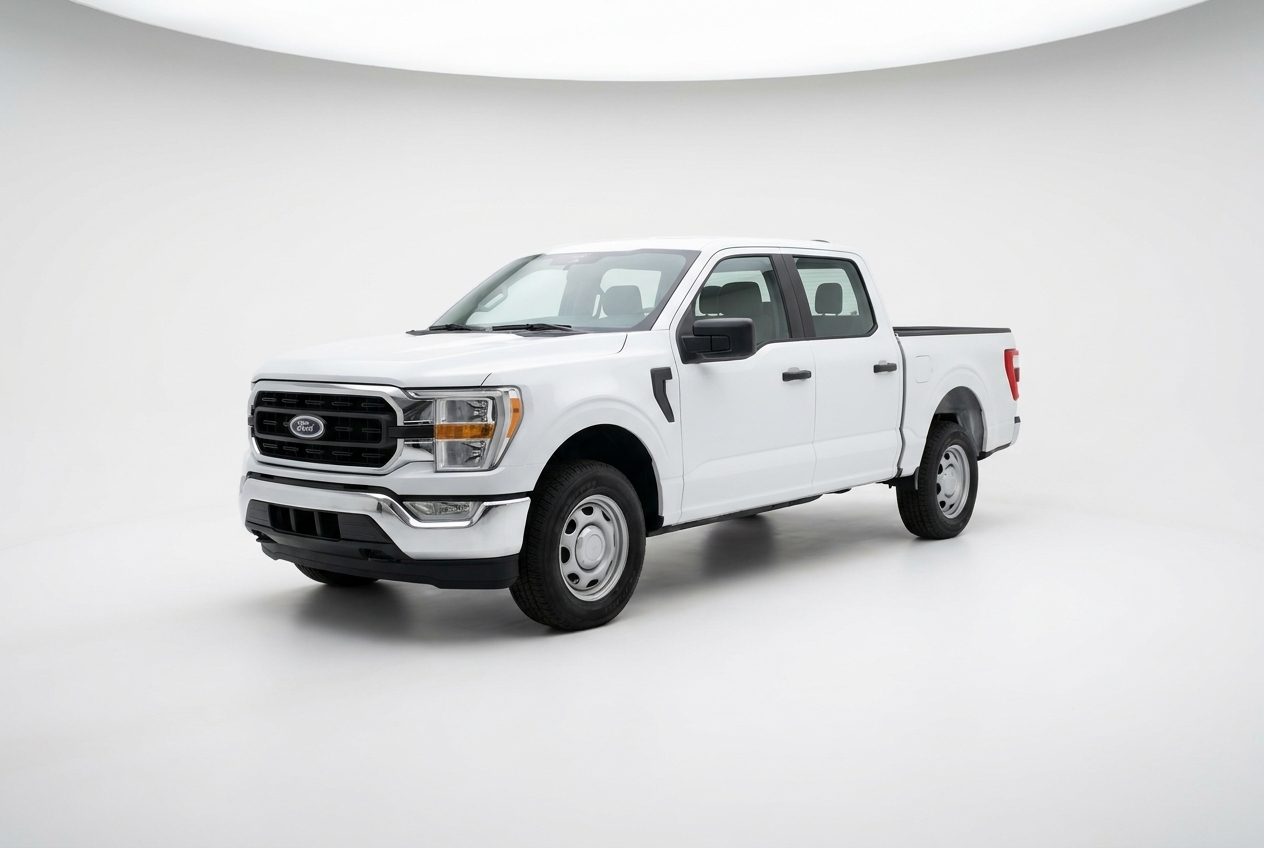
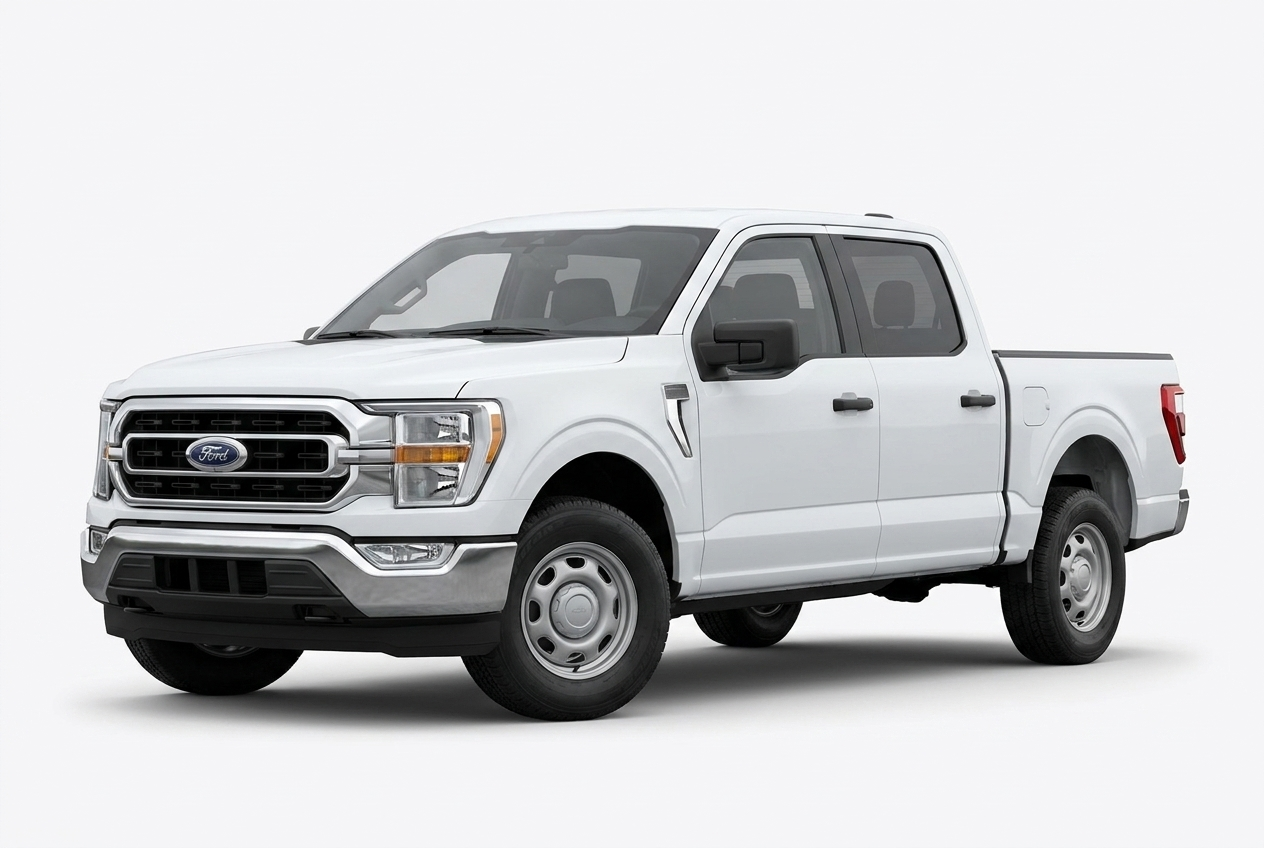
Cycle 14AP-fix9: matched zoom + click-to-zoom modal
Owner: "I want the 3 cars to be in the same zoom level (you can see
the white base car is smaller than the other 2), exact same
background, I do want to be distracted by other stuff in the picture,
also, click to zoom for each picture so that people can see the
before and after will be nice."

Three changes:

(1) Stricter framing prompt for stock chips
    "VEHICLE TAKES EXACTLY 75% OF THE FRAME WIDTH" + explicit no-
    cyclorama-curve / no-wall-to-floor-joint instructions. Replaces
    the looser "8% padding" framing that let Gemini drift on the
    BASE truck (which read smaller because the white-on-white made
    its silhouette less defined).

(2) Framing-reference plumbing in the gen script
    For front-grille-trim-mid-stock and -heavy-duty-stock, the
    script now reads front-grille-trim-base-stock from disk and
    passes it as a "framing anchor" image. Gemini gets the prior
    BASE photo as a reference and a new instruction: "match the
    framing of the attached reference image PIXEL-PRECISELY,
    differ ONLY in the trim-specific paint/bumper/wheels."
    Workflow: generate BASE first (text-to-image), then MID and
    HEAVY-DUTY anchored to BASE, then 3 stehlens via image-edit
    on each stock. Six photos total — all 3 stocks consistent
    in zoom and crop, all 3 stehlens byte-identical to their
    stock pair except for the grille.

(3) Click-to-zoom modal in DimensionPicker
    Each chip image gets a small magnifier icon overlay top-right
[…]

diff --git a/scripts/regen-dimension-chip-photos.ts b/scripts/regen-dimension-chip-photos.ts
@@ -187,7 +187,7 @@ const CHIPS: { slug: string; subject: string; framing: string; intent: string }[
     slug: "front-grille-trim-base-stock",
     subject:
       "2024 Ford F-150 SuperCrew 4-door pickup truck in BASE / XL work-truck trim. Oxford white paint. Factory chrome front bumper. Factory chrome-surround grille with horizontal silver bars. Factory 17-inch steel wheels with hub caps. Standard ride height (no lift). NO aftermarket parts of any kind. NO chase rack, NO bed accessories, NO roof rack, NO light bar.",
-    framing: "Three-quarter front-side view, vehicle FACING LEFT — grille on the LEFT half of the frame, body extending to the RIGHT. Eye-level camera, ~85mm focal length (no wide-angle distortion), camera ~15ft from vehicle. Full vehicle in frame with 8% padding all sides. Pure white seamless studio cyclorama (no horizon, no environment). Single soft top-down studio key light, soft contact shadow under tires. The grille area is the visual focal point.",
+    framing: "Three-quarter front-side view, vehicle FACING LEFT — grille on the LEFT half of the frame, body extending to the RIGHT. Eye-level camera, ~85mm focal length (no wide-angle distortion). VEHICLE TAKES EXACTLY 75% OF THE FRAME WIDTH — centered horizontally, with 12.5% empty padding on the LEFT and 12.5% on the RIGHT. Vertical: vehicle takes 65% of frame height, centered vertically, with 17.5% padding above the roof and 17.5% below the tires. Pure flat white background — NO cyclorama curve visible, NO wall-to-floor joint, NO horizon line, NO environment, NO ceiling, NO shadows other than a soft contact shadow directly under the tires. Single soft top-down studio key light. The frame must look like a clean catalog product shot floating on white, not a studio room.",
     intent: "Same Ford F-150 silhouette as the other two trims; only paint + bumper + wheels differ. Customer reads 'BASE / WORK trim — chrome bumper, steel wheels, white paint'.",
   },
   {
@@ -201,8 +201,8 @@ const CHIPS: { slug: string; subject: string; framing: string; intent: string }[
     slug: "front-grille-trim-mid-stock",
     subject:
       "2024 Ford F-150 SuperCrew 4-door pickup truck in MID-TIER / XLT trim. Atlas blue metallic paint. Factory body-color (blue) front bumper. Factory body-color grille with chrome horizontal bars. Factory 18-inch alloy wheels. Standard ride height. NO aftermarket parts.",
-    framing: "IDENTICAL framing to front-grille-trim-base-stock — three-quarter front-side view, vehicle facing LEFT, grille on LEFT half of frame, eye-level camera, same focal length, same distance, pure white seamless studio cyclorama, same lighting.",
-    intent: "Same F-150 silhouette as BASE; only paint colour + bumper finish + wheel style change. Customer reads 'XLT / MID trim — blue paint, body-color bumper, alloy wheels'.",
+    framing: "IDENTICAL framing to front-grille-trim-base-stock — three-quarter front-side view, vehicle facing LEFT, grille on LEFT half of frame, eye-level camera, same focal length. VEHICLE TAKES EXACTLY 75% OF THE FRAME WIDTH, centered horizontally with 12.5% padding left and right. Same vertical centering. Pure flat white background — NO cyclorama curve, NO wall-to-floor joint, NO horizon, NO environment, NO ceiling. Soft contact shadow under tires only.",
+    intent: "Same F-150 silhouette as BASE; only paint colour + bumper finish + wheel style change. Customer reads 'XLT / MID trim — blue paint, body-color bumper, alloy wheels'. CRITICAL: vehicle must occupy the EXACT SAME 75% frame width as the BASE chip — the white BASE truck appeared smaller in the previous round because it had more empty padding around it. Match the BASE chip zoom level pixel-precisely.",
   },
   {
     slug: "front-grille-trim-mid-stehlen",
@@ -216,7 +216,7 @@ const CHIPS: { slug: string; subject: string; framing: string; intent: string }[
     subject:
       "2024 Ford F-150 SuperCrew 4-door pickup truck in HEAVY-DUTY / OFF-ROAD trim package (Lariat / Tremor styling — NOT Raptor, NOT Trail Boss, NOT Rebel). Agate black metallic paint. Blacked-out front bumper. Factory matte-black grille with chrome horizontal bars and Ford blue-oval badge. Factory 18-inch matte-black off-road wheels with all-terrain tires. Slight 2-inch factory lift. NO chase rack, NO bed accessories, NO roof rack — this is JUST the truck.",
     framing: "IDENTICAL framing to front-grille-trim-base-stock — three-quarter front-side view, vehicle facing LEFT, grille on LEFT half of frame, eye-level camera, pure white seamless studio cyclorama, same lighting. Vehicle takes the same 80% of frame width as the other trims.",
-    intent: "Same F-150 silhouette as BASE and MID; only paint + bumper + wheels change. Customer reads 'HEAVY-DUTY / off-road trim — black-on-black, off-road wheels, slightly lifted'. The truck must be RECOGNIZABLY THE SAME F-150, not a different vehicle.",
+    intent: "Same F-150 silhouette as BASE and MID; only paint + bumper + wheels change. Customer reads 'HEAVY-DUTY / off-road trim — black-on-black, off-road wheels, slightly lifted'. The truck must be RECOGNIZABLY THE SAME F-150, not a different vehicle. CRITICAL: vehicle must occupy the EXACT SAME 75% frame width as the BASE and MID chips. All three trim chips MUST share the same zoom level so the customer sees one truck silhouette in three colour stories, not three different truck sizes.",
   },
   {
     slug: "front-grille-trim-heavy-duty-stehlen",
@@ -285,6 +285,28 @@ async function generateOne(
     }
   }
 
+  // Cycle 14AP-fix9 (owner): for the front-grille MID and HEAVY-DUTY stock
+  // variants, lock the camera framing to whatever the BASE stock photo
+  // produced — pass BASE as a "framing reference" so Gemini matches the
+  // zoom level / camera position / background crop instead of drifting.
+  // This addresses owner's complaint that the white BASE truck looked
+  // smaller than the other two trims.
+  let framingReferenceBytes: Buffer | null = null;
+  const NEEDS_BASE_FRAMING = new Set([
+    "front-grille-trim-mid-stock",
+    "front-grille-trim-heavy-duty-stock",
+  ]);
+  if (NEEDS_BASE_FRAMING.has(spec.slug)) {
+    const basePath = path.join(OUT_DIR, "front-grille-trim-base-stock.jpg");
+    try {
+      framingReferenceBytes = await fs.readFile(basePath);
+    } catch {
+      // No base yet — generate without framing reference. Caller should
+      // generate base FIRST so this branch can attach the reference.
+      framingReferenceBytes = null;
+    }
+  }
+
   const prompt = isStehlenVariant
     ? `EDIT MODE: this photo is the BASE. You are editing it. Replace the factory front grille on the truck with a matte-black hex-mesh aftermarket grille (clean honeycomb pattern, no badging, no wordmark, no LED markers, no decoration — just a matte-black hex grille face).
 
@@ -301,7 +323,28 @@ ABSOLUTE REQUIREMENTS — keep these IDENTICAL to the input photo:
 The ONLY pixels that should change are inside the front grille opening. The customer must be able to flip back and forth between this output and the input and see ONLY the grille difference.
 
 Output: the edited photo as a 3:2 landscape image.`
-    : `${SYSTEM_PROMPT}
+    : framingReferenceBytes
+      ? `${SYSTEM_PROMPT}
+
+You are generating a NEW photo, but you must MATCH the framing of the attached reference image PIXEL-PRECISELY. The reference image is a Ford F-150 in BASE trim shot for a comparison-chip set; this photo will sit next to it in a 3-chip row, and the customer's eye must read all 3 chips as ONE truck silhouette in three colour stories — NOT three different truck sizes.
+
+MATCH FROM REFERENCE — these MUST be identical:
+- Camera angle (three-quarter front-side, vehicle facing LEFT)
+- Camera height (eye-level)
+- Focal length and distance from vehicle
+- Vehicle position in frame (centered horizontally and vertically)
+- Vehicle size — the truck must occupy the EXACT SAME percentage of the frame width as in the reference (~75%)
+- Background — pure flat white, no cyclorama curve, no environment
+- Lighting direction and intensity
+
+DIFFER FROM REFERENCE — these are the trim-specific changes:
+${spec.subject}
+
+Framing: ${spec.framing}
+Intent: ${spec.intent}
+
+Generate the photo now, matching the reference's framing exactly but with the trim-specific paint / bumper / wheels described above.`
+      : `${SYSTEM_PROMPT}
 
 Subject: ${spec.subject}
 Framing: ${spec.framing}
@@ -320,7 +363,17 @@ Generate the photo now.`;
       },
     });
   }
-  if (brandReferenceBytes) {
+  if (framingReferenceBytes) {
+    // Framing-anchor reference for MID/HEAVY-DUTY stocks — Gemini must
+    // match this image's composition, zoom, and lighting.
+    parts.push({
+      inlineData: {
+        mimeType: "image/jpeg",
+        data: framingReferenceBytes.toString("base64"),
+      },
+    });
+  }
+  if (brandReferenceBytes && !isStehlenVariant && !framingReferenceBytes) {
     parts.push({
       inlineData: {
         mimeType: "image/jpeg",

diff --git a/src/components/commerce/dimension-picker.tsx b/src/components/commerce/dimension-picker.tsx
@@ -86,6 +86,28 @@ export function DimensionPicker({
   // Only used on /collections/front-grilles. Hook lives at top-level so
   // it's never conditionally invoked.
   const [grilleView, setGrilleView] = useState<"stock" | "stehlen">("stock");
+  // Cycle 14AP-fix9 (owner): click-to-zoom modal. Stores the source URL
+  // and label of the chip image to display fullscreen, or null when
+  // closed. ESC + click-outside dismiss.
+  const [zoomSrc, setZoomSrc] = useState<{
+    src: string;
+    label: string;
+    caption?: string;
+  } | null>(null);
+
+  // Cycle 14AP-fix9: ESC closes the zoom modal.
+  useEffect(() => {
+    if (!zoomSrc) return;
+    const onKey = (e: KeyboardEvent) => {
+      if (e.key === "Escape") setZoomSrc(null);
+    };
+    document.addEventListener("keydown", onKey);
+    document.body.style.overflow = "hidden";
+    return () => {
+      document.removeEventListener("keydown", onKey);
+      document.body.style.overflow = "";
+    };
+  }, [zoomSrc]);
   // Optimistic local state so the UI reacts instantly while the server round-
   // trip is in flight. Initial pull from props (cookie/DB or URL).
   // Cycle 14AO-fix4 (Mike NF-1): when the browser restores this page from
@@ -697,6 +719,48 @@ export function DimensionPicker({
                               (e.currentTarget as HTMLImageElement).style.display = "none";
                             }}
                           />
+                          {/* Cycle 14AP-fix9 (owner): zoom icon overlay.
+                              Click chip body = pick trim. Click zoom icon
+                              = open fullscreen modal so the customer can
+                              see the before/after detail without
+                              committing to a pick. stopPropagation keeps
+                              the icon click from triggering onPick. */}
+                          <button
+                            type="button"
+                            onClick={(e) => {
+                              e.stopPropagation();
+                              e.preventDefault();
+                              setZoomSrc({
+                                src: imgSrc,
+                                label: opt,
+                                caption: FRONT_GRILLE_POC && s.group === "trim"
+                                  ? grilleView === "stock"
+                                    ? "Stock truck"
+                                    : "+ Stehlen grille"
+                                  : undefined,
+                              });
+                            }}
+                            aria-label={`Zoom ${opt} photo`}
+                            style={{
+                              position: "absolute",
+                              top: 8,
+                              right: 8,
+                              width: 32,
+                              height: 32,
+                              display: "flex",
+                              alignItems: "center",
+                              justifyContent: "center",
+                              background: "rgba(10,10,10,0.65)",
+                              backdropFilter: "blur(4px)",
+                              border: "1px solid rgba(255,255,255,0.2)",
+                              borderRadius: 4,
+                              color: "rgba(255,255,255,0.9)",
+                              cursor: "pointer",
+                              padding: 0,
+                            }}
+                          >
+                            <Icons.search size={14} />
+                          </button>
                         </div>
                         <div
                           style={{
@@ -781,6 +845,96 @@ export function DimensionPicker({
           </div>
         )}
       </div>
+
+      {/* Cycle 14AP-fix9 (owner): fullscreen click-to-zoom modal. Click
+          backdrop or X or press ESC to close. Caption shows the trim
+          label + STOCK/STEHLEN view tag so the customer knows which
+          state of the toggle they're zoomed into. */}
+      {zoomSrc && (
+        <div
+          role="dialog"
+          aria-modal="true"
+          aria-label={`${zoomSrc.label} preview`}
+          onClick={() => setZoomSrc(null)}
+          style={{
+            position: "fixed",
+            inset: 0,
+            zIndex: 90,
+            background: "rgba(10,10,10,0.92)",
+            display: "flex",
+            alignItems: "center",
+            justifyContent: "center",
+            padding: 20,
+            cursor: "zoom-out",
+          }}
+        >
+          <button
+            type="button"
+            onClick={(e) => {
+              e.stopPropagation();
+              setZoomSrc(null);
+            }}
+            aria-label="Close"
+            style={{
+              position: "absolute",
+              top: 16,
+              right: 16,
+              width: 40,
+              height: 40,
+              display: "flex",
+              alignItems: "center",
+              justifyContent: "center",
+              background: "rgba(255,255,255,0.1)",
+              border: "1px solid rgba(255,255,255,0.2)",
+              borderRadius: 4,
+              color: "#fff",
+              cursor: "pointer",
+            }}
+          >
+            <Icons.close size={18} />
+          </button>
+          <div
+            onClick={(e) => e.stopPropagation()}
+            style={{
+              position: "relative",
+              width: "min(95vw, 1400px)",
+              maxHeight: "85vh",
+              aspectRatio: "3 / 2",
+              cursor: "default",
+            }}
+          >
+            <Image
+              src={zoomSrc.src}
+              alt={zoomSrc.label}
+              fill
+              sizes="95vw"
+              style={{ objectFit: "contain" }}
+              priority
+            />
+          </div>
+          <div
+            style={{
+              position: "absolute",
+              bottom: 24,
+              left: 0,
+              right: 0,
+              textAlign: "center",
+              color: "rgba(255,255,255,0.85)",
+              fontSize: 14,
+              letterSpacing: "0.08em",
+              textTransform: "uppercase",
+              fontFamily: "var(--font-display)",
+            }}
+          >
+            <span style={{ fontWeight: 700 }}>{zoomSrc.label}</span>
+            {zoomSrc.caption && (
+              <span style={{ opacity: 0.6, marginLeft: 12 }}>
+                · {zoomSrc.caption}
+              </span>
+            )}
+          </div>
+        </div>
+      )}
     </section>
   );
 }
